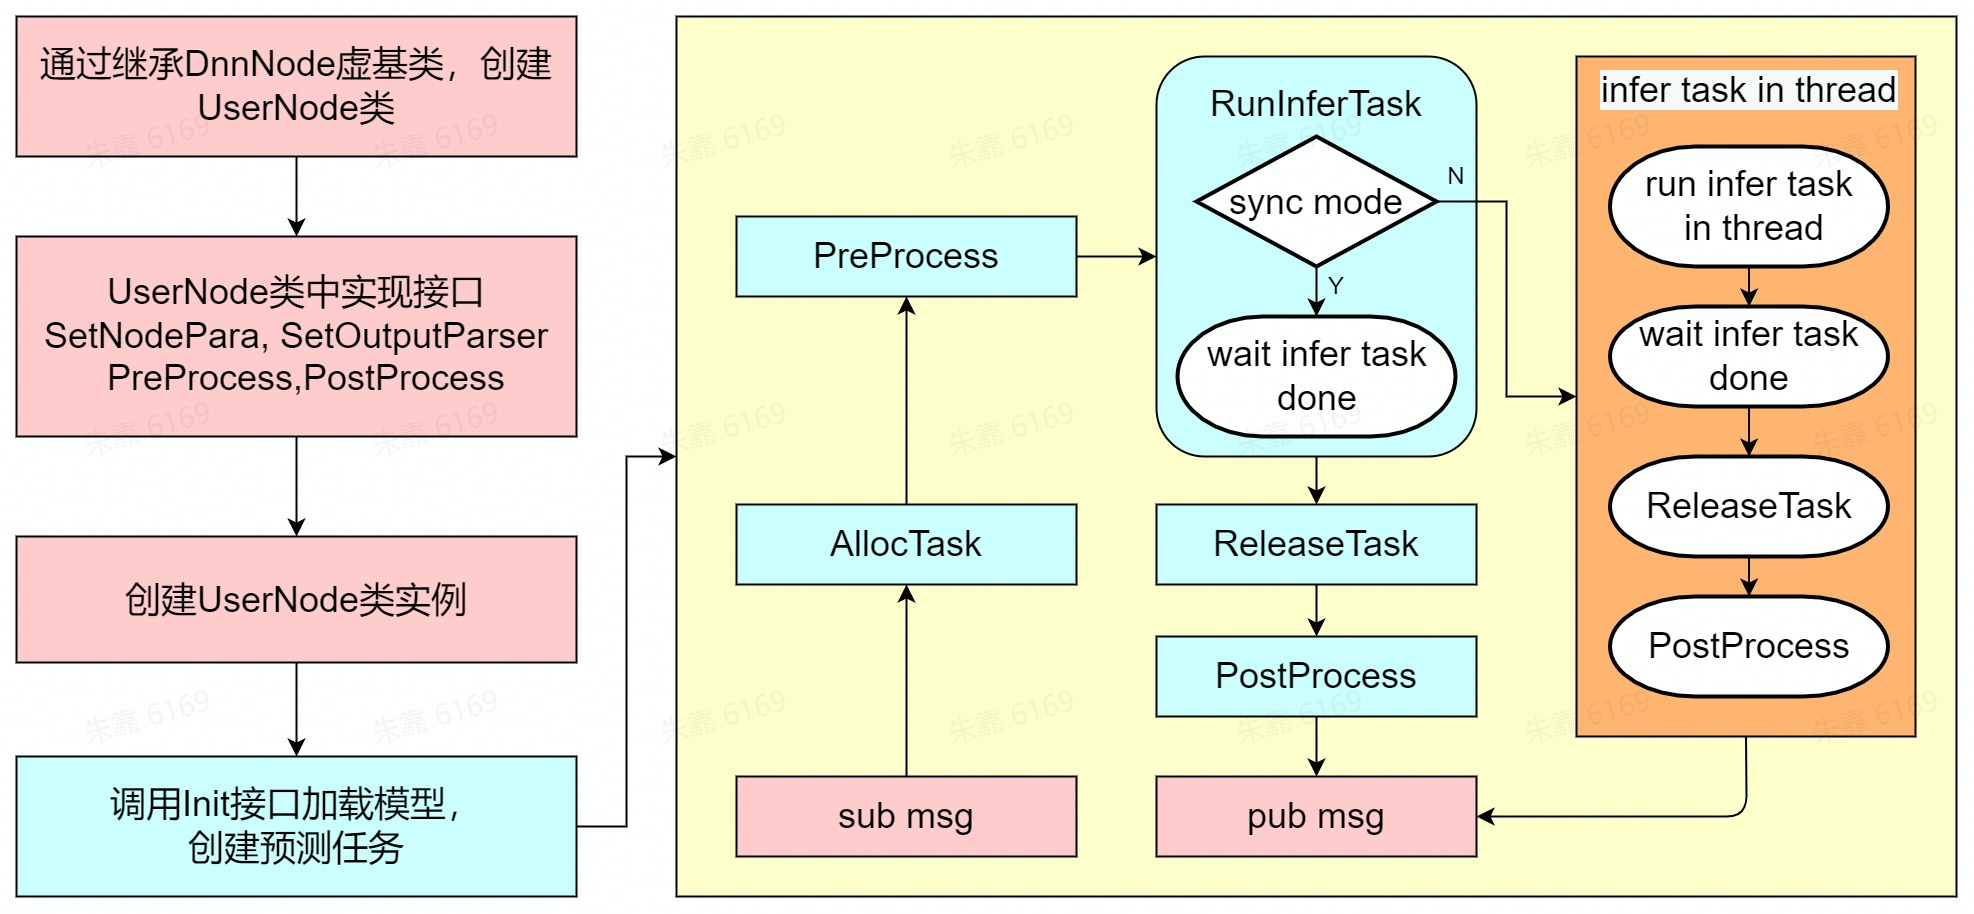
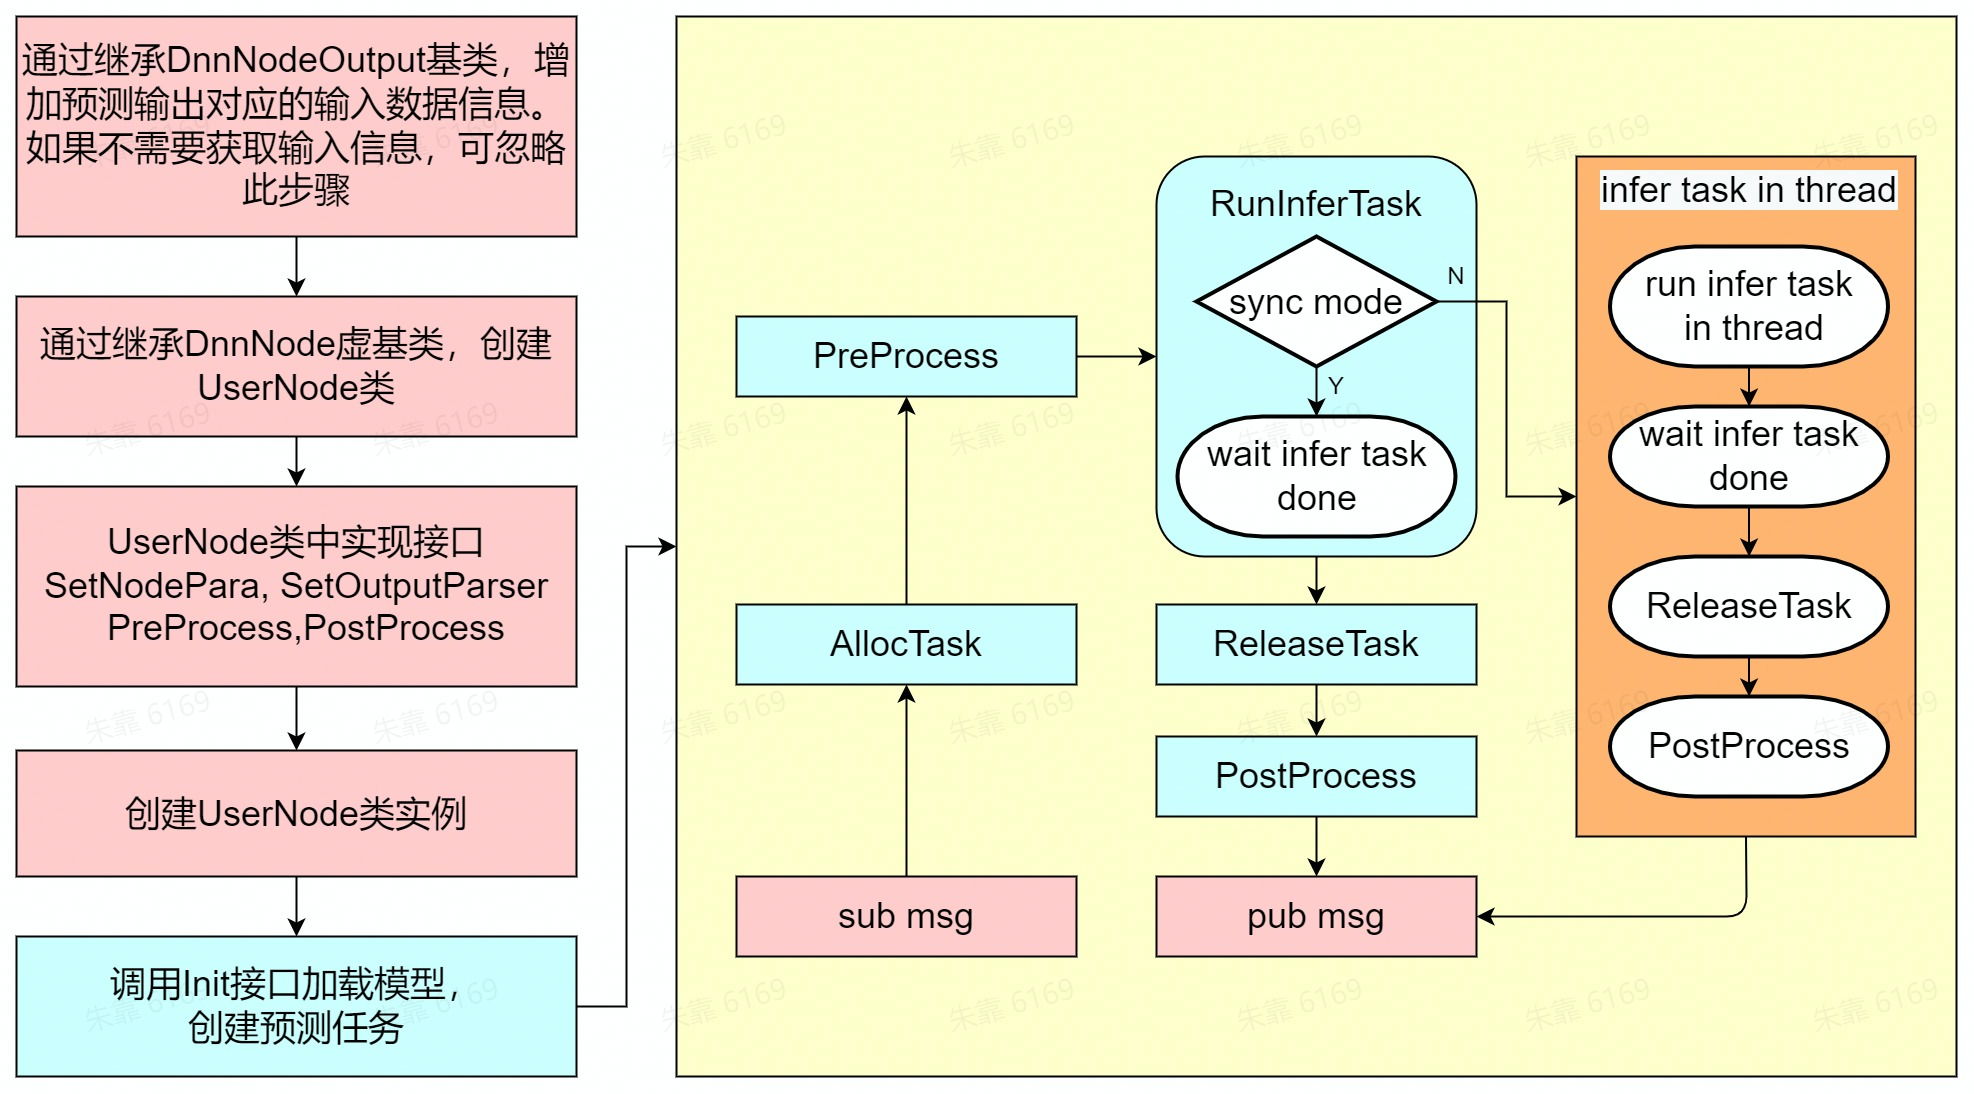
fix(dnn_node): [cr_id_skip] Create task every prediction to fix task reuse issue
Summary: style(dnn_node): [cr_id_skip] Fix lint

Test Plan: verified

Reviewers: kairui.wang

Reviewed By: kairui.wang

Differential Revision: https://cr.hobot.cc/D152489

diff --git a/dnn_node_example/src/fasterrcnn_body_det_node.cpp b/dnn_node_example/src/fasterrcnn_body_det_node.cpp
@@ -57,6 +57,7 @@ int FasterRcnnBodyDetNode::SetNodePara() {
   dnn_node_para_ptr_->model_file = model_file_name_;
   dnn_node_para_ptr_->model_name = model_name_;
   dnn_node_para_ptr_->model_task_type = model_task_type_;
+  dnn_node_para_ptr_->task_num = 2;
   return 0;
 }
 
@@ -144,7 +145,21 @@ int FasterRcnnBodyDetNode::PreProcess(
 }
 
 int FasterRcnnBodyDetNode::PostProcess(
-  const std::vector<std::shared_ptr<DNNResult>> &outputs) {
+  const std::shared_ptr<DnnNodeOutput> &node_output) {
+  auto fasterRcnn_output =
+    std::dynamic_pointer_cast<FasterRcnnOutput>(node_output);
+  if (fasterRcnn_output) {
+    std::stringstream ss;
+    ss << "Output from image_name: " << fasterRcnn_output->image_name;
+    if (fasterRcnn_output->image_msg_header) {
+      ss << ", frame_id: " << fasterRcnn_output->image_msg_header->frame_id
+         << ", stamp: " << fasterRcnn_output->image_msg_header->stamp.sec
+         << "." << fasterRcnn_output->image_msg_header->stamp.nanosec;
+    }
+    RCLCPP_INFO(rclcpp::get_logger("example"), "%s", ss.str().c_str());
+  }
+
+  const auto& outputs = node_output->outputs;
   RCLCPP_INFO(rclcpp::get_logger("example"),
     "outputs size: %d", outputs.size());
   if (outputs.empty() ||
@@ -221,7 +236,7 @@ int FasterRcnnBodyDetNode::PostProcess(
 int FasterRcnnBodyDetNode::Predict(
   std::vector<std::shared_ptr<DNNInput>> &inputs,
   const std::shared_ptr<std::vector<hbDNNRoi>> rois,
-  std::vector<std::shared_ptr<DNNResult>> &outputs) {
+  std::shared_ptr<DnnNodeOutput> dnn_output) {
   // 1. 申请预测task
   auto task_id = AllocTask();
   uint32_t ret = 0;
@@ -233,7 +248,7 @@ int FasterRcnnBodyDetNode::Predict(
   }
 
   // 3. 模型推理
-  ret = RunInferTask(outputs, task_id, is_sync_mode_);
+  ret = RunInferTask(dnn_output, task_id, is_sync_mode_);
   if (ret != 0) {
     RCLCPP_ERROR(rclcpp::get_logger("example"), "Run RunInferTask failed!");
     ReleaseTask(task_id);
@@ -242,7 +257,7 @@ int FasterRcnnBodyDetNode::Predict(
   if (is_sync_mode_) {
     ReleaseTask(task_id);
     // 4. 通过后处理接口处理模型输出
-    ret = PostProcess(outputs);
+    ret = PostProcess(dnn_output);
     if (ret != 0) {
       RCLCPP_ERROR(rclcpp::get_logger("example"), "Run PostProcess failed!");
     }
@@ -290,12 +305,13 @@ int FasterRcnnBodyDetNode::FeedFromLocal() {
   // 2. 使用pyramid创建DNNInput对象inputs
   // inputs将会作为模型的输入通过RunInferTask接口传入
   auto inputs = std::vector<std::shared_ptr<DNNInput>>{pyramid};
-  std::vector<std::shared_ptr<DNNResult>> outputs;
+  auto dnn_output = std::make_shared<FasterRcnnOutput>();
+  dnn_output->image_name = image_;
   uint32_t ret = 0;
   // 3. 开始预测
-  ret = Predict(inputs, nullptr, outputs);
+  ret = Predict(inputs, nullptr, dnn_output);
   // 4. 处理预测结果，如渲染到图片或者发布预测结果
-  if (ret != 0 || outputs.empty()) {
+  if (ret != 0) {
     RCLCPP_ERROR(rclcpp::get_logger("example"), "Run predict failed!");
     return ret;
   } else if (dump_render_img_ &&
@@ -304,8 +320,10 @@ int FasterRcnnBodyDetNode::FeedFromLocal() {
     std::string result_image = "render.jpg";
     cv::Mat mat = cv::imread(image_, cv::IMREAD_COLOR);
     Render(mat,
-          dynamic_cast<Filter2DResult *>(outputs[box_output_index_].get()),
-          dynamic_cast<LandmarksResult *>(outputs[kps_output_index_].get()),
+          dynamic_cast<Filter2DResult *>(
+            dnn_output->outputs[box_output_index_].get()),
+          dynamic_cast<LandmarksResult *>(
+            dnn_output->outputs[kps_output_index_].get()),
           model_input_height_, model_input_width_);
     RCLCPP_INFO(rclcpp::get_logger("example"),
       "Draw result to file: %s", result_image.c_str());
@@ -405,11 +423,13 @@ int FasterRcnnBodyDetNode::FeedFromSubscriber() {
     // 2. 使用pyramid创建DNNInput对象inputs
     // inputs将会作为模型的输入通过RunInferTask接口传入
     auto inputs = std::vector<std::shared_ptr<DNNInput>>{pyramid};
-    std::vector<std::shared_ptr<DNNResult>> outputs;
-    outputs.clear();
+    auto dnn_output = std::make_shared<FasterRcnnOutput>();
+    dnn_output->image_msg_header = std::make_shared<std_msgs::msg::Header>();
+    dnn_output->image_msg_header->set__frame_id(img_msg->header.frame_id);
+    dnn_output->image_msg_header->set__stamp(img_msg->header.stamp);
     uint32_t ret = 0;
     // 3. 开始预测
-    ret = Predict(inputs, nullptr, outputs);
+    ret = Predict(inputs, nullptr, dnn_output);
 
     {
       auto tp_now = std::chrono::system_clock::now();
@@ -429,8 +449,10 @@ int FasterRcnnBodyDetNode::FeedFromSubscriber() {
         std::to_string(img_msg->header.stamp.nanosec) + ".jpg";
       auto mat = cv_img->image;
       Render(mat,
-            dynamic_cast<Filter2DResult *>(outputs[box_output_index_].get()),
-            dynamic_cast<LandmarksResult *>(outputs[kps_output_index_].get()),
+            dynamic_cast<Filter2DResult *>(
+              dnn_output->outputs[box_output_index_].get()),
+            dynamic_cast<LandmarksResult *>(
+              dnn_output->outputs[kps_output_index_].get()),
             model_input_height_, model_input_width_);
       RCLCPP_INFO(rclcpp::get_logger("example"),
         "Draw result to file: %s", result_image.c_str());

diff --git a/dnn_node/src/dnn_node.cpp b/dnn_node/src/dnn_node.cpp
@@ -11,6 +11,7 @@
 #include <vector>
 #include <queue>
 #include <unordered_map>
+#include <utility>
 
 #include "rclcpp/rclcpp.hpp"
 
@@ -121,34 +122,10 @@ int DnnNode::TaskInit() {
   }
 
   // 1. 为每个模型创建task
-  const auto& model_name = dnn_node_para_ptr_->model_name;
-  // 根据模型类型选择接口创建task
-  // 为task添加model
-  if (ModelTaskType::ModelInferType == dnn_node_para_ptr_->model_task_type) {
-    for (int idx = 0; idx < dnn_node_para_ptr_->task_num; idx++) {
-      auto task =
-        TaskManager::GetInstance()->GetModelInferTask(
-        dnn_node_para_ptr_->timeout_ms);
-      task->SetModel(dnn_rt_para_->model_manage);
-      dnn_rt_para_->tasks.emplace_back(task);
-    }
-  } else if (ModelTaskType::ModelRoiInferType ==
-    dnn_node_para_ptr_->model_task_type) {
-    for (int idx = 0; idx < dnn_node_para_ptr_->task_num; idx++) {
-      auto task =
-      TaskManager::GetInstance()->GetModelRoiInferTask(
-        dnn_node_para_ptr_->timeout_ms);
-      task->SetModel(dnn_rt_para_->model_manage);
-      dnn_rt_para_->tasks.emplace_back(task);
-    }
-  } else {
-    RCLCPP_ERROR(rclcpp::get_logger("dnn"), "Invalid model task type [%d]",
-      static_cast<int>(dnn_node_para_ptr_->model_task_type));
-  }
-  if (dnn_rt_para_->tasks.empty()) {
-    RCLCPP_ERROR(rclcpp::get_logger("dnn"), "Failed to get infer task");
-    return -1;
-  }
+  // 此处只创建空的task，AllocTask才真正创建task，ReleaseTask时释放task
+  // 原因是目前一个task不支持多次预测，即每次预测都要申请一个新的task
+  // todo 20220305 需要easy dnn支持task复用
+  dnn_rt_para_->tasks.resize(dnn_node_para_ptr_->task_num);
 
   // 2. 创建idle running task
   {
@@ -201,7 +178,7 @@ int DnnNode::Init() {
 }
 
 int DnnNode::RunInferTask(
-  std::vector<std::shared_ptr<DNNResult>> &sync_outputs,
+  std::shared_ptr<DnnNodeOutput> &sync_outputs,
   const TaskId& task_id,
   const bool is_sync_mode,
   const int timeout_ms) {
@@ -209,7 +186,7 @@ int DnnNode::RunInferTask(
     return -1;
   }
   if (is_sync_mode) {
-    return RunInfer(sync_outputs, GetTask(task_id), timeout_ms);
+    return RunInfer(sync_outputs->outputs, GetTask(task_id), timeout_ms);
   } else {
     std::lock_guard<std::mutex> lock(thread_pool_->msg_mutex_);
     if (thread_pool_->msg_handle_.GetTaskNum() >=
@@ -220,9 +197,9 @@ int DnnNode::RunInferTask(
         thread_pool_->msg_limit_count_);
       return -1;
     }
-    auto infer_task = [this, task_id, timeout_ms](){
-      std::vector<std::shared_ptr<DNNResult>> aync_outputs;
-      if (RunInfer(aync_outputs, GetTask(task_id), timeout_ms) != 0) {
+    auto infer_task = [this, task_id, timeout_ms, sync_outputs](){
+      std::shared_ptr<DnnNodeOutput> aync_outputs = sync_outputs;
+      if (RunInfer(aync_outputs->outputs, GetTask(task_id), timeout_ms) != 0) {
         ReleaseTask(task_id);
         RCLCPP_ERROR(rclcpp::get_logger("dnn"), "Run infer fail\n");
       } else {
@@ -301,6 +278,38 @@ TaskId DnnNode::AllocTask(int timeout_ms) {
   if (!dnn_rt_para_) {
     return task_id;
   }
+
+  // 真正创建task
+  std::shared_ptr<Task> task = nullptr;
+  const auto& model_name = dnn_node_para_ptr_->model_name;
+  // 根据模型类型选择接口创建task,为task添加model
+  if (ModelTaskType::ModelInferType == dnn_node_para_ptr_->model_task_type) {
+    task =
+      TaskManager::GetInstance()->GetModelInferTask(
+      dnn_node_para_ptr_->timeout_ms);
+    if (!task) {
+      RCLCPP_ERROR(rclcpp::get_logger("dnn"), "GetModelInferTask fail");
+      return task_id;
+    }
+    std::dynamic_pointer_cast<ModelInferTask>(task)->SetModel(
+      dnn_rt_para_->model_manage);
+  } else if (ModelTaskType::ModelRoiInferType ==
+    dnn_node_para_ptr_->model_task_type) {
+    task =
+    TaskManager::GetInstance()->GetModelRoiInferTask(
+      dnn_node_para_ptr_->timeout_ms);
+    if (!task) {
+      RCLCPP_ERROR(rclcpp::get_logger("dnn"), "GetModelRoiInferTask fail");
+      return task_id;
+    }
+    std::dynamic_pointer_cast<ModelRoiInferTask>(task)->SetModel(
+      dnn_rt_para_->model_manage);
+  } else {
+    RCLCPP_ERROR(rclcpp::get_logger("dnn"), "Invalid model task type [%d]",
+      static_cast<int>(dnn_node_para_ptr_->model_task_type));
+    return task_id;
+  }
+
   auto alloc_task = [this, &task_id](){
     auto idle_task = dnn_rt_para_->idle_tasks.begin();
     idle_task->second->alloc_tp = std::chrono::system_clock::now();
@@ -332,6 +341,8 @@ TaskId DnnNode::AllocTask(int timeout_ms) {
   }
 
   RCLCPP_INFO(rclcpp::get_logger("dnn"), "Alloc task id: %d", task_id);
+  dnn_rt_para_->tasks[task_id] = std::move(task);
+
   return task_id;
 }
 
@@ -352,6 +363,7 @@ int DnnNode::ReleaseTask(const TaskId& task_id) {
   }
   dnn_rt_para_->idle_tasks[node_task->task_id] = node_task;
   dnn_rt_para_->running_tasks.erase(task_id);
+  dnn_rt_para_->tasks[task_id] = nullptr;
   dnn_rt_para_->task_cv.notify_one();
   lg.unlock();
   RCLCPP_INFO(rclcpp::get_logger("dnn"),

diff --git a/dnn_node/include/dnn_node/dnn_node.h b/dnn_node/include/dnn_node/dnn_node.h
@@ -82,6 +82,17 @@ struct DnnNodePara {
   int task_num = 1;
 };
 
+// 用户可以继承DnnNodeOutput来扩展输出内容
+// 例如增加输入信息：图片数据、图片名、时间戳、ID等
+struct DnnNodeOutput {
+  DnnNodeOutput() {
+    outputs.clear();
+  }
+  virtual ~DnnNodeOutput() {}
+  // 输出数据智能指针列表
+  std::vector<std::shared_ptr<DNNResult>> outputs;
+};
+
 class DnnNode : public rclcpp::Node {
  public:
   // node_name为创建的节点名，options为选项，用法和ROS Node相同
@@ -120,7 +131,7 @@ class DnnNode : public rclcpp::Node {
   //   - [in] task_id 预测任务ID。
   //   - [in] is_sync_mode 预测模式，true为同步模式，false为异步模式。
   //   - [in] timeout_ms 预测推理超时时间。
-  int RunInferTask(std::vector<std::shared_ptr<DNNResult>> &sync_outputs,
+  int RunInferTask(std::shared_ptr<DnnNodeOutput> &sync_output,
                    const TaskId& task_id,
                    const bool is_sync_mode = true,
                    const int timeout_ms = 1000);
@@ -136,7 +147,7 @@ class DnnNode : public rclcpp::Node {
   // 用户必须根据实际使用的模型输出数据类型，继承DNNResult并定义模型输出数据类型
   // 例如对于检测模型，继承DNNResult的子类中需要定义检测框、置信度等输出数据类型
   virtual int PostProcess(
-    const std::vector<std::shared_ptr<DNNResult>> &outputs) = 0;
+    const std::shared_ptr<DnnNodeOutput> &output) = 0;
 
  protected:
   // easy_dnn_node_para_ptr为模型管理和推理参数，用户配置模型文件名和模型类型后传入

diff --git a/dnn_node_example/include/fasterrcnn_body_det_node.h b/dnn_node_example/include/fasterrcnn_body_det_node.h
@@ -24,6 +24,7 @@ using rclcpp::NodeOptions;
 
 using hobot::dnn_node::DnnNode;
 using hobot::dnn_node::DnnNodePara;
+using hobot::dnn_node::DnnNodeOutput;
 using hobot::dnn_node::TaskId;
 using hobot::dnn_node::ModelTaskType;
 
@@ -35,6 +36,11 @@ enum class DnnFeedType {
   // 用于预测的图片来源，0：本地图片；1：订阅到的image msg
   FROM_LOCAL = 0,
   FROM_SUB = 1
+};
+
+struct FasterRcnnOutput : public DnnNodeOutput {
+  std::string image_name = "";
+  std::shared_ptr<std_msgs::msg::Header> image_msg_header = nullptr;
 };
 
 class FasterRcnnBodyDetNode : public DnnNode {
@@ -55,7 +61,7 @@ class FasterRcnnBodyDetNode : public DnnNode {
                 const std::shared_ptr<std::vector<hbDNNRoi>> rois = nullptr)
                 override;
 
-  int PostProcess(const std::vector<std::shared_ptr<DNNResult>> &outputs)
+  int PostProcess(const std::shared_ptr<DnnNodeOutput> &outputs)
     override;
 
  private:
@@ -87,7 +93,7 @@ class FasterRcnnBodyDetNode : public DnnNode {
 
   int Predict(std::vector<std::shared_ptr<DNNInput>> &inputs,
     const std::shared_ptr<std::vector<hbDNNRoi>> rois,
-    std::vector<std::shared_ptr<DNNResult>> &outputs);
+    std::shared_ptr<DnnNodeOutput> dnn_output);
   int FeedFromLocal();
   int FeedFromSubscriber();
   int Render(cv::Mat& mat, const Filter2DResult *, const LandmarksResult *,

diff --git a/docs/API-Manual/API-Manual.md b/docs/API-Manual/API-Manual.md
@@ -34,7 +34,27 @@ struct DnnNodePara {
 };
 ```
 
+## 2.3 Dnn Node输出数据
 
+```cpp
+struct DnnNodeOutput {
+  DnnNodeOutput() {
+    outputs.clear();
+  }
+  virtual ~DnnNodeOutput() {}
+  // 输出数据智能指针列表
+  std::vector<std::shared_ptr<DNNResult>> outputs;
+};
+```
+
+用户可以继承DnnNodeOutput来扩展输出内容，增加预测输出对应的输入数据信息。例如对于以图片作为输入的检测任务，可以增加图片名、header信息：
+
+```
+struct FasterRcnnOutput : public DnnNodeOutput {
+  std::string image_name = "";
+  std::shared_ptr<std_msgs::msg::Header> image_msg_header = nullptr;
+};
+```
 
 # 3.DnnNode类接口
 
@@ -70,7 +90,7 @@ virtual int PreProcess(std::vector<std::shared_ptr<DNNInput>> &inputs,
 
 ## 3.3 RunInferTask()
 ```cpp
-int RunInferTask(std::vector<std::shared_ptr<DNNResult>> &sync_outputs,
+int RunInferTask(std::shared_ptr<DnnNodeOutput> &sync_output,
                    const TaskId& task_id,
                    const bool is_sync_mode = true,
                    const int timeout_ms = 1000);
@@ -78,7 +98,7 @@ int RunInferTask(std::vector<std::shared_ptr<DNNResult>> &sync_outputs,
 执行推理任务。
 
 - 参数
-    - [out] outputs 输出数据智能指针列表，同步模式有效。
+    - [out] sync_output 输出数据智能指针。
     - [in] task_id 预测任务ID。
     - [in] is_sync_mode 预测模式，true为同步模式，false为异步模式。
     - [in] timeout_ms 预测推理超时时间。
@@ -87,16 +107,18 @@ int RunInferTask(std::vector<std::shared_ptr<DNNResult>> &sync_outputs,
 
 ## 3.4 PostProcess()
 ```cpp
-virtual int PostProcess(const std::vector<std::shared_ptr<DNNResult>> &outputs) = 0;
+virtual int PostProcess(const std::shared_ptr<DnnNodeOutput> &output) = 0;
 ```
 处理解析后的模型输出数据，例如将输出封装成msg发布到总线。
+
+DnnNodeOutput中包含用户自定义的扩展输出内容（如预测输出对应的输入数据信息）和DNNResult。
 
 DNNResult是easy dnn中定义的模型输出数据类型，用户必须根据实际使用的模型输出数据类型，继承DNNResult并定义模型输出数据类型。
 
 例如对于检测模型，继承DNNResult的子类中需要定义检测框、置信度等输出数据类型。
 
 - 参数
-    - [out] outputs 输出数据智能指针列表。
+    - [out] output 输出数据智能指针。
 - 返回值
     - 0成功，非0失败。
 
